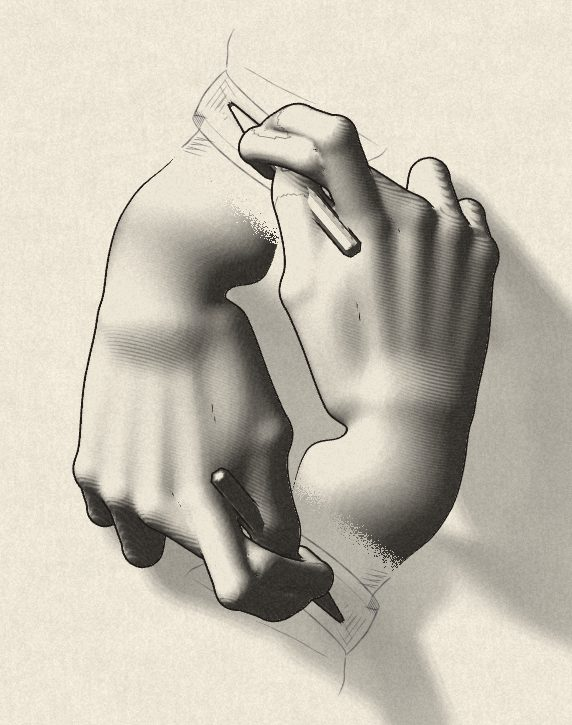
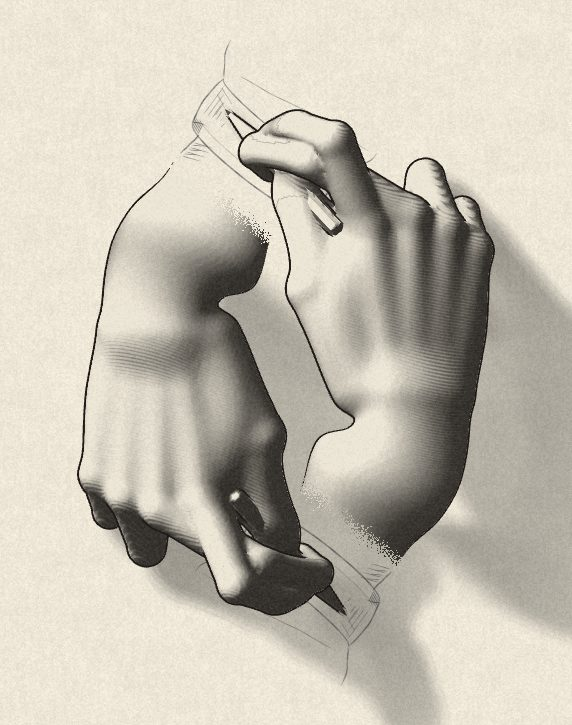
Add final Drawing Hands and Print Gallery sources
Claude-Session: https://claude.ai/code/session_014TAyedqHqZJAaDXf4p7BDh

diff --git a/illusions/drawing-hands/src/main.js b/illusions/drawing-hands/src/main.js
@@ -46,14 +46,14 @@ function handGeometry() {
 
 // A hexagonal pencil, sharpened: lacquered body, bare wood cone, graphite.
 function pencilGeometry(tip, axis) {
-  const L = 10.5, segA = 36;
+  const L = 9.2, segA = 36;
   const apo = PEN.r * Math.cos(Math.PI / 6);
   const rHex = (a) => apo / Math.cos(((a % (Math.PI / 3)) + Math.PI / 3) % (Math.PI / 3) - Math.PI / 6);
   const rCone = (s) => (s < PEN.tipLen ? 0.012 + (0.09 - 0.012) * (s / PEN.tipLen) : 0.09 + (PEN.r - 0.09) * Math.min(1, (s - PEN.tipLen) / PEN.coneLen));
   const ax = new THREE.Vector3(...axis).normalize();
   const u = new THREE.Vector3(0, 0, 1).cross(ax).normalize();
   const w = new THREE.Vector3().crossVectors(ax, u).normalize();
-  const rings = [0, 0.05, 0.12, 0.2, 0.28, PEN.tipLen, 0.45, 0.6, 0.8, 1.0, 1.2, 1.4, 1.6, 1.8, 1.95, 2.1, 2.25, 2.4, 2.6, 3.2, 5, 7, 9, L];
+  const rings = [0, 0.05, 0.12, 0.2, 0.28, PEN.tipLen, 0.45, 0.6, 0.8, 1.0, 1.2, 1.4, 1.6, 1.8, 1.95, 2.1, 2.25, 2.4, 2.6, 3.2, 5, 7, L];
   const pos = [], nor = [], mat = [], idx = [];
   for (const s of rings) {
     for (let k = 0; k <= segA; k++) {
@@ -111,7 +111,7 @@ const drawing = buildDrawing(fp);
 const FLAT_CENTRE = (() => {
   let x = 0, y = 0, n = 0;
   for (const s of drawing.strokes) for (const p of s.pts) { x += p[0]; y += p[1]; n++; }
-  return [x / n - 0.9, y / n + 1.3];
+  return [x / n - 0.9, y / n + 1.9];
 })();
 const PHI = -Math.PI / 2 - 0.66;
 const placeA = new THREE.Matrix4();
@@ -263,7 +263,7 @@ const arrowMat = new THREE.MeshBasicMaterial({ color: 0xa23b2a, transparent: tru
 
 // ------------------------------------------------------------------ camera
 const camera = new THREE.OrthographicCamera(-1, 1, 1, -1, 1, 400);
-const VIEW_H = 14.6; // half height of the sheet in view
+const VIEW_H = 15.3; // half height of the sheet in view
 const TOP = { az: -Math.PI / 2, el: Math.PI / 2, zoom: 1 };
 const SIDE = { az: -Math.PI / 2 + 0.7, el: 0.56, zoom: 0.95 };
 const view = { ...TOP, px: 0, py: 0 };
@@ -329,6 +329,7 @@ function pencilTarget(T) {
 // sliding the pencil where it rests in the hand; the hand itself follows,
 // smoothly, only as far as it must.
 const REACH = 2.3;
+const TURN_MAX = 0.11;
 const handState = { turn: 0, slide: 0, vTurn: 0, vSlide: 0, init: false };
 const qTmp = new THREE.Quaternion(), d0 = new THREE.Vector3(), d1 = new THREE.Vector3(), m4 = new THREE.Matrix4();
 function handFor(px, py) {
@@ -346,17 +347,23 @@ function solveMotion(T, dt) {
   let dx = vA.x - tipL[0], dy = vA.y - tipL[1];
   const d = Math.hypot(dx, dy);
   const k = d > REACH ? (d - REACH) / d : 0;
-  const [turn, slide] = handFor(tipL[0] + dx * k, tipL[1] + dy * k);
+  let [turn, slide] = handFor(tipL[0] + dx * k, tipL[1] + dy * k);
+  // never lean further towards the other hand than this; the fingers do the rest
+  turn = Math.min(turn, TURN_MAX);
   // critically damped follow
   if (!handState.init || dt <= 0) { handState.turn = turn; handState.slide = slide; handState.init = true; }
   else {
     const w = 9.0;
-    for (const key of ['turn', 'slide']) {
-      const target = key === 'turn' ? turn : slide;
-      const vk = key === 'turn' ? 'vTurn' : 'vSlide';
-      const a = w * w * (target - handState[key]) - 2 * w * handState[vk];
-      handState[vk] += a * dt;
-      handState[key] += handState[vk] * dt;
+    const n = Math.ceil(dt / 0.01);
+    const h = dt / n;
+    for (let i = 0; i < n; i++) {
+      for (const key of ['turn', 'slide']) {
+        const target = key === 'turn' ? turn : slide;
+        const vk = key === 'turn' ? 'vTurn' : 'vSlide';
+        const a = w * w * (target - handState[key]) - 2 * w * handState[vk];
+        handState[vk] += a * h;
+        handState[key] += handState[vk] * h;
+      }
     }
   }
   shared.uMotion.value.set(handState.turn, handState.slide, lift, 0);

diff --git a/illusions/drawing-hands/src/strokes.js b/illusions/drawing-hands/src/strokes.js
@@ -59,15 +59,15 @@ export function buildDrawing(fp) {
   const sideY = (x, sgn) => sgn * (rimY + 0.18 * Math.sin(Math.PI * (XC - x) / (XC - XB)) + 0.1 * (XC - x) / (XC - XB));
   const sleeveY = (x, sgn) => sgn * (rimY + 0.1 + 0.75 * Math.sin(0.5 * Math.PI * Math.min(1, (XB - x) / (XB - XS))));
 
-  // 1. the wrist: two contours from the hand back into the cuff
-  add(curve(line([XW, W(XW)[1]], [XC + 0.2, W(XC)[1] - 0.02]), 0.12, 0.02, rand));
-  add(curve(line([XW, W(XW)[0]], [XC + 0.2, W(XC)[0] + 0.02]), 0.12, 0.02, rand));
   // 2. the cuff's rim: the near side, then the far side beside the wrist
   add(curve(arc([XC, 0], RX, rimY, 1, -Math.PI / 2, Math.PI / 2), 0.12, 0.018, rand));
   const wl = W(XC);
   const aLo = Math.asin(Math.max(-1, wl[0] / rimY)), aHi = Math.asin(Math.min(1, wl[1] / rimY));
   add(curve((t) => { const a = lerp(Math.PI * 0.5, Math.PI - aHi, t); return [XC + RX * Math.cos(a), rimY * Math.sin(a)]; }, 0.1, 0.01, rand), { w: 0.06, dark: 0.85 });
   add(curve((t) => { const a = lerp(-Math.PI * 0.5, -Math.PI - aLo, t); return [XC + RX * Math.cos(a), rimY * Math.sin(a)]; }, 0.1, 0.01, rand), { w: 0.06, dark: 0.85 });
+  // 1. the wrist: two contours from the cuff up to where the hand rises
+  add(curve(line([XC + 0.2, W(XC)[0] + 0.02], [XW, W(XW)[0]]), 0.12, 0.02, rand));
+  add(curve(line([XC + 0.2, W(XC)[1] - 0.02], [XW, W(XW)[1]]), 0.12, 0.02, rand));
   // 3. the cuff's sides and its seam with the sleeve
   add(curve((t) => { const x = lerp(XC, XB, t); return [x, sideY(x, 1)]; }, 0.14, 0.02, rand));
   add(curve((t) => { const x = lerp(XC, XB, t); return [x, sideY(x, -1)]; }, 0.14, 0.02, rand));

diff --git a/illusions/drawing-hands/src/shaders.js b/illusions/drawing-hands/src/shaders.js
@@ -155,7 +155,7 @@ void main() {
   float light = (0.1 + 0.9 * mix(wrap * wrap, diff, 0.72)) * ao + 0.05 * rim;
   float spec = pow(max(dot(n, h), 0.0), 26.0) * gloss;
   vec3 colour = alb * (0.22 + 0.86 * light) + spec * vec3(1.0, 0.97, 0.9);
-  colour *= 1.0 - 0.45 * nailEdge;
+  colour *= 1.0 - 0.3 * nailEdge;
 
   // ---- lithograph: crayon tone that keeps the paper as its highlight,
   // with hatching that goes round the form in the shadows
@@ -176,7 +176,7 @@ void main() {
   float hh = 1.0 - (1.0 - h1 * ok1 - (1.0 - ok1) * 2.0 * w1) * (1.0 - h2 * ok2 - (1.0 - ok2) * 2.0 * w2) * (1.0 - h3);
   float g = grain();
   float v = mix(1.0, tv, 0.86) * (1.0 - 0.42 * hh) + g * 1.3;
-  v *= 1.0 - 0.6 * nailEdge;
+  v *= 1.0 - 0.35 * nailEdge;
   vec3 litho = mix(uInk, uPaper, clamp(v, 0.0, 1.0));
   vec3 col = mix(colour + g * 0.6, litho, uLitho);
   gl_FragColor = vec4(col, 1.0);
@@ -202,6 +202,7 @@ void main() {
   dir = l > 1e-6 ? dir / l : vec2(0.0);
   float wpx = uWidth * (0.45 + 0.55 * smoothstep(0.3, 0.85, f)) * smoothstep(0.08, 0.3, f);
   c.xy += dir * wpx * 2.0 / uRes * c.w;
+  c.z += 0.0009 * c.w; // just behind the surface, so it shows only at silhouettes
   vF = f;
   gl_Position = c;
 }

diff --git a/illusions/print-gallery/src/main.js b/illusions/print-gallery/src/main.js
@@ -183,6 +183,8 @@ const ease = (k) => (k < 0.5 ? 4 * k * k * k : 1 - Math.pow(-2 * k + 2, 3) / 2);
 
 let last = performance.now();
 let badgeShown = '';
+let badgeSince = -1e9;
+let badgeOn = false;
 function frame(now) {
   const dt = Math.min(0.05, Math.max(0, (now - last) / 1000));
   last = now;
@@ -217,8 +219,13 @@ function frame(now) {
   uniforms.uGrid.value = state.grid;
   uniforms.uLog.value = ease(state.log);
 
+  // the badge explains the current twist: shown while it changes, and kept
+  // while the picture is open at the seam
   const text = badgeText(t);
-  if (text !== badgeShown) { setBadge(true, text); badgeShown = text; }
+  if (text !== badgeShown) { badgeShown = text; badgeSince = now; }
+  const showBadge = (t > 0.001 && t < 0.999) || now - badgeSince < 3500;
+  if (showBadge !== badgeOn) { badgeOn = showBadge; setBadge(showBadge, text); }
+  else if (showBadge) setBadge(true, text);
 
   renderer.render(display, cam);
   requestAnimationFrame(frame);
